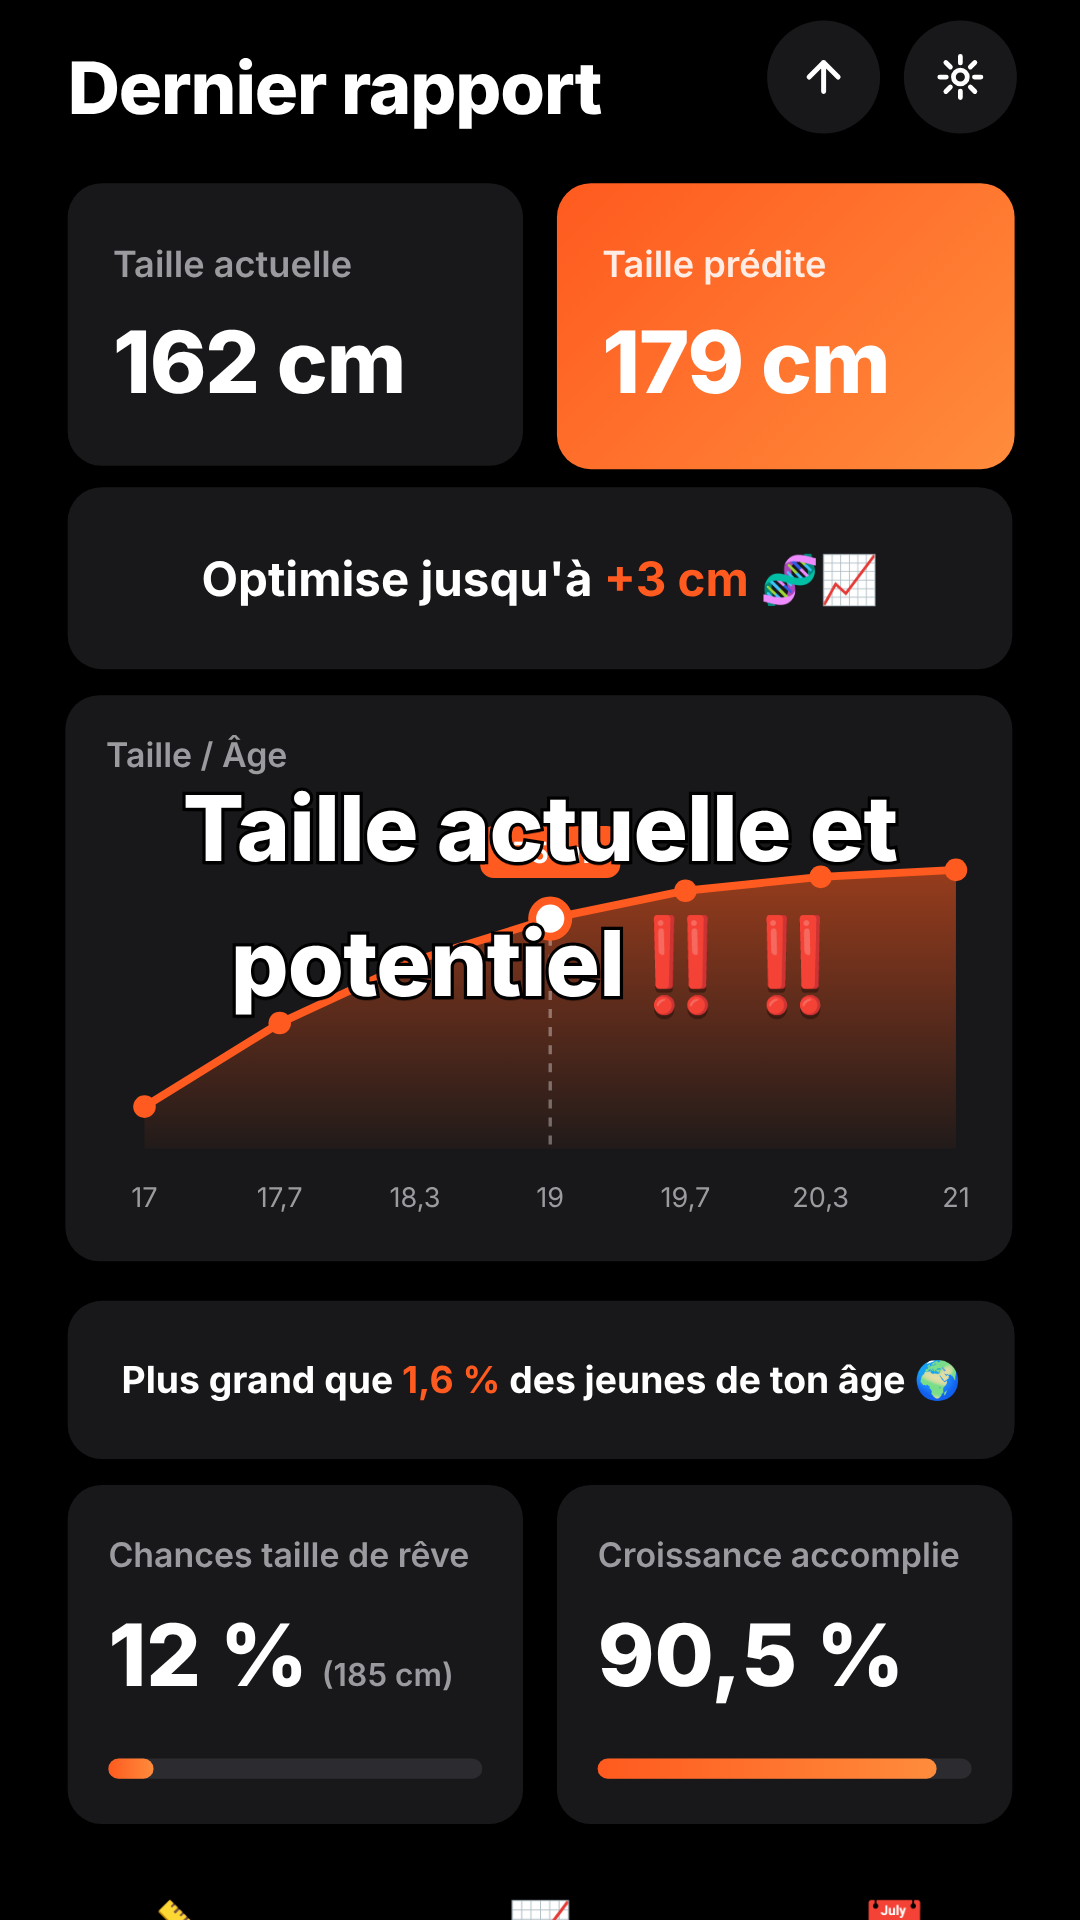
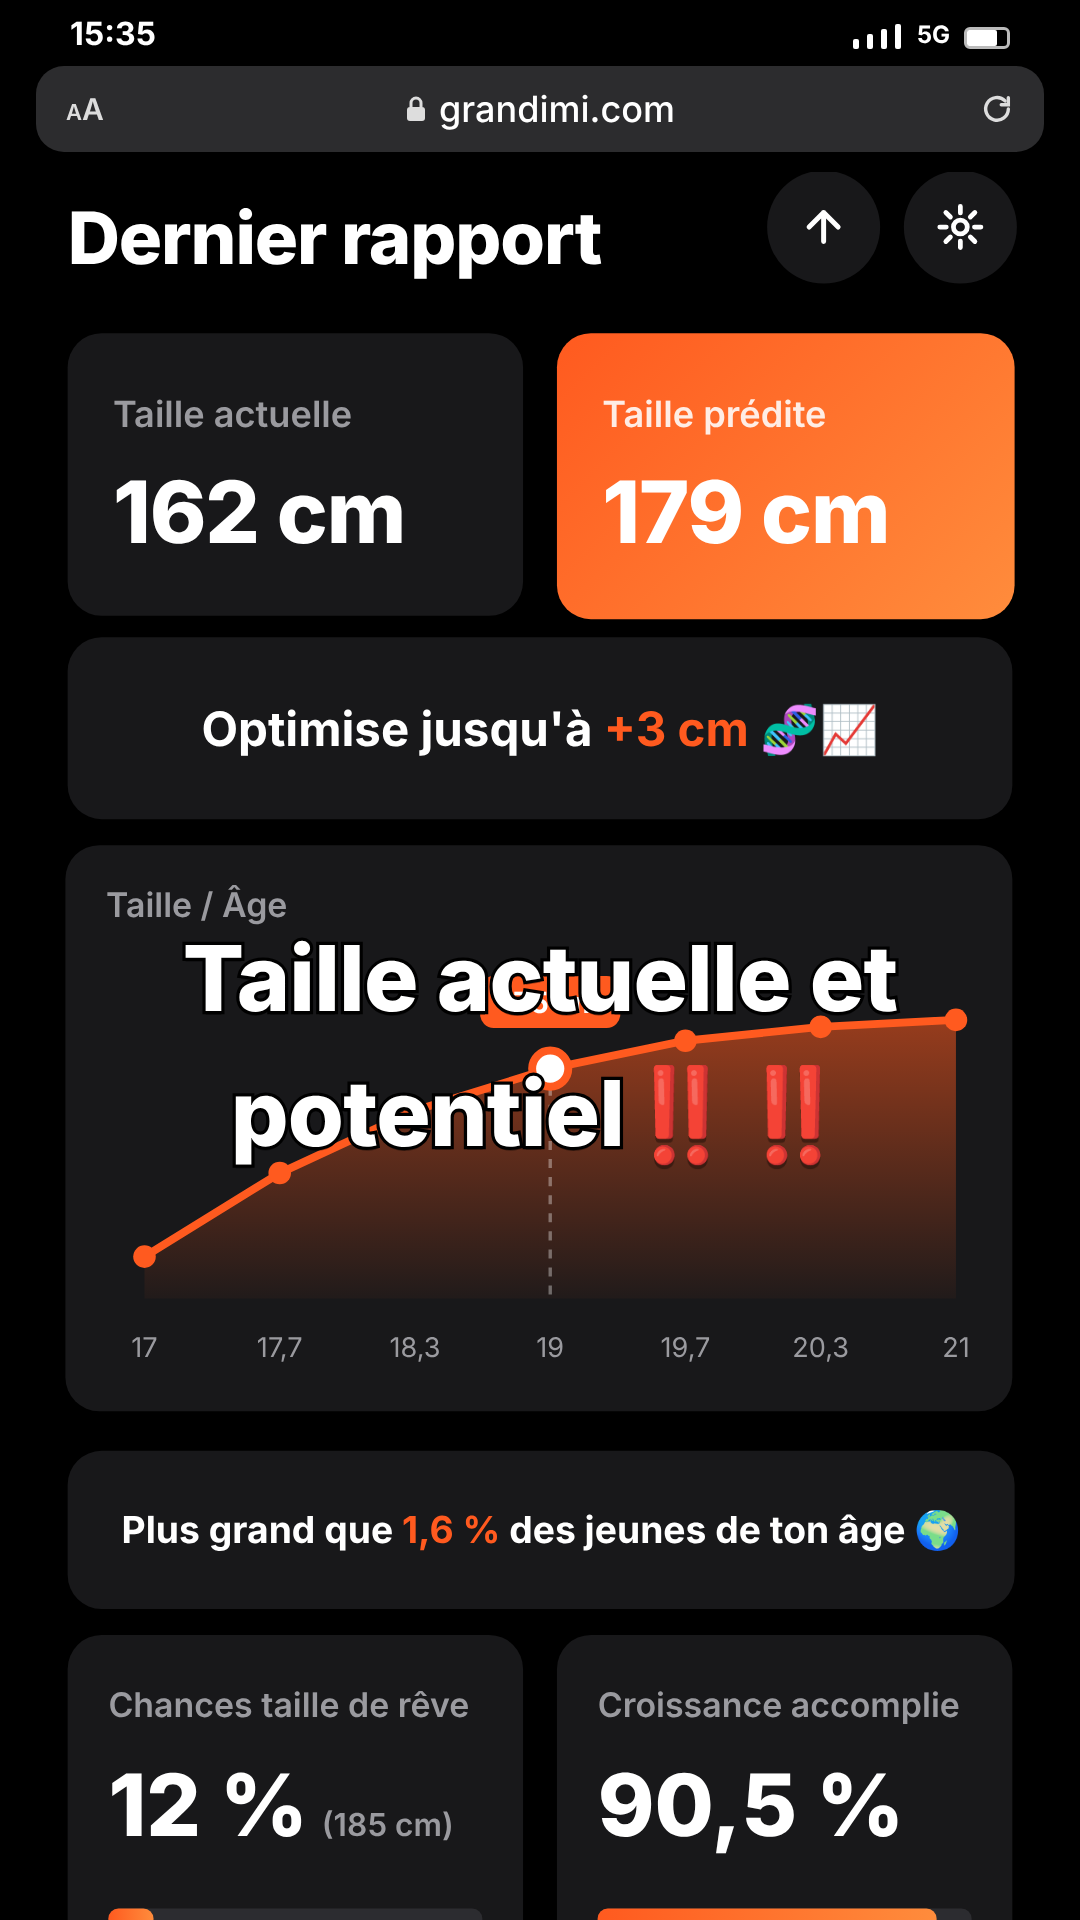
Diapos pub : barre d'adresse Safari « grandimi.com » en haut
Claude-Session: https://claude.ai/code/session_01BTLT518gu1g1ezUbmEDRqv

diff --git a/video/src/episode/Dashboard.tsx b/video/src/episode/Dashboard.tsx
@@ -217,7 +217,9 @@ export const DashboardGrandimi: React.FC<{
 	fleches: DashFleche[];
 	ballon?: {src: string; a: number; fin: number};
 	revele?: number;
-}> = ({d, cams, pops, fleches, ballon, revele}) => {
+	/** Page ouverte dans Safari : barre d'état et barre d'adresse fixes en haut, page décalée dessous. */
+	url?: string;
+}> = ({d, cams, pops, fleches, ballon, revele, url}) => {
 	const f = useCurrentFrame();
 	const c = camera(cams, f);
 	const sx = (l: Ligne) => echelleLigne(pops, l, f);
@@ -234,14 +236,14 @@ export const DashboardGrandimi: React.FC<{
 					width: W,
 					height: H,
 					transformOrigin: '0 0',
-					transform: `translate(${W / 2}px, ${H / 2}px) scale(${c.z}) translate(${-c.cx * W}px, ${-c.cy * H}px)`,
+					transform: `translateY(${url ? 150 : 0}px) translate(${W / 2}px, ${H / 2}px) scale(${c.z}) translate(${-c.cx * W}px, ${-c.cy * H}px)`,
 					fontFamily: FONT,
 					color: '#fff',
 				}}
 			>
 				{/* Barre d'état (visible dans les zooms, comme sur l'enregistrement d'écran de l'original). */}
-				<div style={{position: 'absolute', left: 140, top: 18, fontSize: 30, fontWeight: 700}}>15:35</div>
-				<div style={{position: 'absolute', right: 140, top: 22, display: 'flex', gap: 10, alignItems: 'flex-end'}}>
+				<div style={{position: 'absolute', left: 140, top: 18, fontSize: 30, fontWeight: 700, opacity: url ? 0 : 1}}>15:35</div>
+				<div style={{position: 'absolute', right: 140, top: 22, display: url ? 'none' : 'flex', gap: 10, alignItems: 'flex-end'}}>
 					{[10, 15, 20, 25].map((h, i) => (
 						<div key={i} style={{width: 6, height: h, borderRadius: 2, background: i < 3 ? '#fff' : '#666'}} />
 					))}
@@ -370,6 +372,47 @@ export const DashboardGrandimi: React.FC<{
 					<Fleche key={i} fl={fl} f={f} />
 				))}
 			</div>
+			{url ? (
+				<div style={{position: 'absolute', left: 0, top: 0, width: W, height: 172, background: '#000', fontFamily: FONT, color: '#fff'}}>
+					<div style={{position: 'absolute', left: 70, top: 14, fontSize: 32, fontWeight: 700}}>15:35</div>
+					<div style={{position: 'absolute', right: 70, top: 20, display: 'flex', gap: 8, alignItems: 'flex-end'}}>
+						{[10, 15, 20, 25].map((h, i) => (
+							<div key={i} style={{width: 6, height: h, borderRadius: 2, background: '#fff'}} />
+						))}
+						<div style={{fontSize: 24, fontWeight: 700, marginLeft: 8}}>5G</div>
+						<div style={{width: 46, height: 22, borderRadius: 6, border: '3px solid #bbb', marginLeft: 6}}>
+							<div style={{width: '75%', height: '100%', background: '#fff', borderRadius: 2}} />
+						</div>
+					</div>
+					<div
+						style={{
+							position: 'absolute',
+							left: 36,
+							right: 36,
+							top: 66,
+							height: 86,
+							borderRadius: 28,
+							background: '#2c2c2e',
+							display: 'flex',
+							alignItems: 'center',
+							justifyContent: 'center',
+						}}
+					>
+						<div style={{position: 'absolute', left: 30, fontSize: 30, fontWeight: 600, color: '#ddd'}}>
+							<span style={{fontSize: 22}}>A</span>A
+						</div>
+						<svg width={22} height={28} viewBox="0 0 22 28" style={{marginRight: 12}}>
+							<rect x={2} y={12} width={18} height={14} rx={3} fill="#ddd" />
+							<path d="M6 12 V8 a5 5 0 0 1 10 0 V12" fill="none" stroke="#ddd" strokeWidth={3} />
+						</svg>
+						<div style={{fontSize: 36, fontWeight: 500}}>{url}</div>
+						<svg width={34} height={34} viewBox="0 0 24 24" style={{position: 'absolute', right: 30}} fill="none" stroke="#ddd" strokeWidth={2.4} strokeLinecap="round">
+							<path d="M20 12a8 8 0 1 1-2.3-5.7" />
+							<path d="M20 4v5h-5" />
+						</svg>
+					</div>
+				</div>
+			) : null}
 		</AbsoluteFill>
 	);
 };

diff --git a/video/src/episode/Episode.tsx b/video/src/episode/Episode.tsx
@@ -723,6 +723,7 @@ const PlanView: React.FC<{plan: Plan; start: number; end: number; ep: EpisodeDat
 					pops={plan.dashboard.pops.map((p) => ({...p, a: loc(p.a), fin: loc(p.fin)}))}
 					fleches={plan.dashboard.fleches.map((fl) => ({...fl, a: loc(fl.a), fin: loc(fl.fin)}))}
 					revele={plan.dashboard.revele !== undefined ? loc(plan.dashboard.revele) : undefined}
+					url={plan.dashboard.url}
 					ballon={
 						plan.dashboard.ballon
 							? {src: file(plan.dashboard.ballon.fichier), a: loc(plan.dashboard.ballon.a), fin: loc(plan.dashboard.ballon.fin)}

diff --git a/video/src/episode/types.ts b/video/src/episode/types.ts
@@ -86,6 +86,8 @@ export type Plan = {
 		ballon?: {fichier: string; a: Ancre; fin: Ancre};
 		/** La taille prédite reste cachée (« ??? cm ») jusqu'à cette ancre. */
 		revele?: Ancre;
+		/** Page vue dans Safari : barre d'adresse avec ce lien en haut (diapos pub). */
+		url?: string;
 	};
 	/** Suite d'images plein écran (une par frame, la dernière reste affichée), à la place de `image`. */
 	sequence?: string[];
